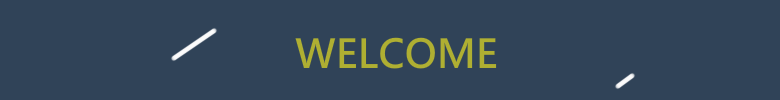
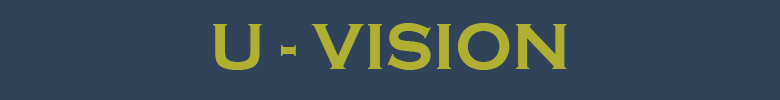
version8.2

Changed region(s): [[0.2154, 0.21, 0.7385, 0.72], [0.7692, 0.72, 0.8308, 0.9]]

diff --git a/CSS/styleAll.css b/CSS/styleAll.css
@@ -2,9 +2,25 @@
 html, body {
   margin:0;
   padding:0;
-  background: #232636;
-  font-family: 'Playfair Display', serif;
+  font-family: 'Open Sans', sans-serif;
 }
+html {
+      background: linear-gradient(#949aa6, #0e2032);
+}
+.BG {
+  background: url("../Media/Images/fon.jpg");
+  background-repeat: no-repeat;
+  background-size: cover;
+  width: 100%;
+  height: 630px;
+  position: absolute;
+  margin-top: -630px;
+}
+/*body {
+  background: url("../Media/Images/fon.jpg");
+  background-repeat: no-repeat;
+  background-size: cover;
+}*/
 a {
   text-decoration: none;
   color: #d1d44a;
@@ -29,6 +45,7 @@ header {
   margin-right: auto;
   background: #426870;
   color: white;
+  margin-top: 630px;
 }
 /*ФОН*/
 .header-bg {
@@ -42,7 +59,7 @@ header {
  margin-top: 200px;
   }
 .header-bg2 {
- background: url(../Media/Images/U-VisionPicture3.png) center repeat;
+ background: url(../Media/Images/U-VisionPicture3.png) center no-repeat;
  height: 100px;
  margin-top: 40px;
  margin-bottom: 40px;

diff --git a/index.php b/index.php
@@ -22,11 +22,13 @@ require "php/loadWelcomeText.php";
     <link rel="shortcut icon" type="image/x-icon" href="Media/Images/main_Icon.ico">
     <link rel="preconnect" href="https://fonts.googleapis.com">
     <link rel="preconnect" href="https://fonts.gstatic.com" crossorigin>
-    <link href="https://fonts.googleapis.com/css2?family=Playfair+Display&display=swap" rel="stylesheet">
+    <link href="https://fonts.googleapis.com/css2?family=Open+Sans&display=swap" rel="stylesheet">
     <link rel="stylesheet" type="text/css" href="CSS/styleAll.css">
     <link rel="stylesheet" type="text/css" href="CSS/styleMainPage.css">
   </head>
   <body>
+    <div class="BG">
+    </div>
 
     <header>
       <?php LoadHeader($lang); ?>

diff --git a/php/pLoadHeader.php b/php/pLoadHeader.php
@@ -7,7 +7,7 @@ function LoadHeader($lang) // Загрузить хэдэр
   $btn_cartoons = $lang->get('BTN_CARTOONS');
   $h3_account = $lang->get('H3_ACCOUNT');
 
-  echo "<a href='http://u-vision.zzz.com.ua/'><div class='header-bg'></div></a>
+  echo "
   <nav class='nav'>
     <div class='nav_links'>
       <a class='nav__link' href='index.php'>" . $btn_main . "</a>

diff --git a/Authorization.php b/Authorization.php
@@ -31,7 +31,8 @@ if($_SESSION['user'])
     <link rel="stylesheet" type="text/css" href="CSS/RegistrationAndProfileStyle.css">
   </head>
   <body>
-
+    <div class="BG">
+    </div>
     <header>
       <?php LoadHeader($lang); ?>
     </header>

diff --git a/Profile.php b/Profile.php
@@ -33,6 +33,8 @@ if(!$_SESSION['user'])
     <link rel="stylesheet" type="text/css" href="CSS/RegistrationAndProfileStyle.css">
   </head>
   <body>
+    <div class="BG">
+    </div>
 
     <header>
       <?php LoadHeader($lang); ?>

diff --git a/Registration.php b/Registration.php
@@ -31,6 +31,8 @@ if($_SESSION['user'])
     <link rel="stylesheet" type="text/css" href="CSS/RegistrationAndProfileStyle.css">
   </head>
   <body>
+    <div class="BG">
+    </div>
 
     <header>
       <?php LoadHeader($lang); ?>

diff --git a/Watch.php b/Watch.php
@@ -29,6 +29,8 @@ session_start();
     <link rel="stylesheet" type="text/css" href="CSS/styleWatch.css">
   </head>
   <body>
+    <div class="BG">
+    </div>
 
     <header>
       <?php LoadHeader($lang); ?>

diff --git a/AllSerials.php b/AllSerials.php
@@ -30,7 +30,8 @@ require "SQL/SHOW_RESULT_FILMS.php";
     </script>
   </head>
   <body>
-
+    <div class="BG">
+    </div>
     <header>
       <?php LoadHeader($lang); ?>
     </header>

diff --git a/AllCartoons.php b/AllCartoons.php
@@ -30,6 +30,8 @@ require "SQL/SHOW_RESULT_FILMS.php";
     </script>
   </head>
   <body>
+    <div class="BG">
+    </div>
 
     <header>
       <?php LoadHeader($lang); ?>

diff --git a/AllFilms.php b/AllFilms.php
@@ -30,6 +30,8 @@ require "SQL/SHOW_RESULT_FILMS.php";
     </script>
   </head>
   <body>
+    <div class="BG">
+    </div>
 
     <header>
       <?php LoadHeader($lang); ?>

diff --git a/Searched.php b/Searched.php
@@ -29,6 +29,8 @@ session_start();
     </script>
   </head>
   <body>
+    <div class="BG">
+    </div>
 
     <header>
       <?php LoadHeader($lang); ?>
